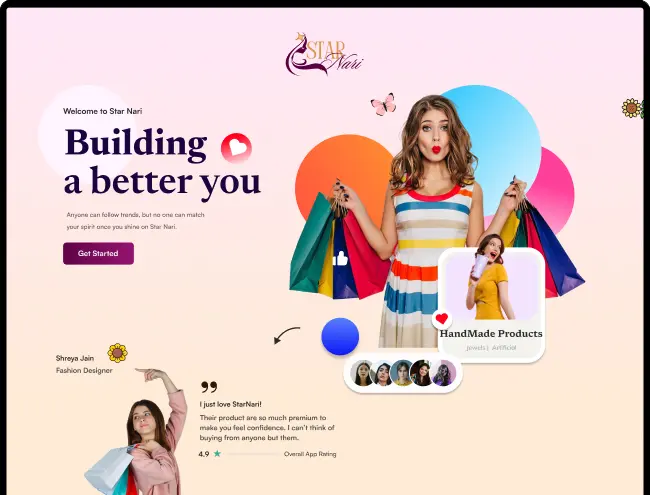
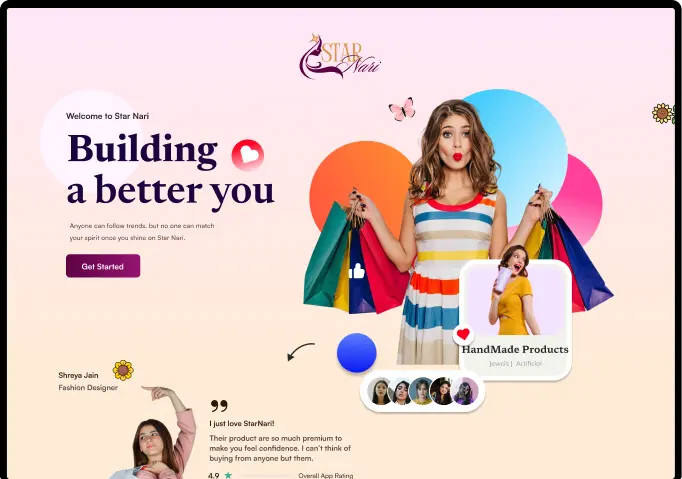
design change

diff --git a/src/app/components/landing-pages/home/home.component.html b/src/app/components/landing-pages/home/home.component.html
@@ -7,10 +7,10 @@
         <div class="row align-items-center">
           <div class="col-lg-5 mb-4 mb-lg-0">
             <div class="ct_prompt_hero_content mx-auto">
-              <h2 class="ct_fs_40 ct_fw_600 ct_mb_30">
+              <h1 class="ct_fs_40 ct_fw_600 ct_mb_30">
                 <span class="ct_orange_gredient_text ct_ff_figtree">Build Web & Mobile Apps</span> in Seconds Just by
                 Typing a Prompt.
-              </h2>
+              </h1>
               <a routerLink="/login" class="ct_prompt_primary_btn ct_blue_btn_fill ">
                 <img src="assets/img/home_mail_icon.svg" alt="" loading="lazy" width="23px" height="25px">
                 Continue with Email
@@ -112,21 +112,19 @@
                 <div class="swiper-slide">
                   <div class="ct_home_slider_main_img ct_home_slider_main_bg px-3">
                     <div style="max-width: 800px; margin: 0 auto;">
-                      <h4 class="mb-2 ct_fs_22 ct_fw_600 text-center pb-0 text-white">AI App Builders for Every Need
+                      <h4 class="mb-5 ct_fs_22 ct_fw_600 text-center pb-0 text-white">Build Your App in Minutes with Creative AI
                       </h4>
-                      <p class=" text-white mx-auto text-center " style="max-width: 405px; margin-bottom: 30px;">Create
-                        powerful apps, automate workflows, and launch faster with intelligent AI tools.</p>
-                      <div class="row">
+                                          <img src="assets/img/slider_home_55.png" alt="" />
+
+                      <!-- <div class="row">
                         <div class="col-lg-6 mb-3">
                           <div class="ct_ai_need_card">
                             <video muted playsinline>
                               <source src="assets/img/ai_app_gif_1.mp4" type="video/mp4">
                             </video>
                             <div class="mt-3">
-                              <h4 class="ct_fs_16 ct_fw_600 pb-0">AI App Generator</h4>
-                              <p class="mb-0 ct_fs_12">Create complete apps from simple prompts from idea to interface
-                                in
-                                seconds.</p>
+                              <h4 class="ct_fs_20 ct_fw_600 pb-0 mb-1">Type Your Prompt</h4>
+                              <p class="mb-0 ct_fs_14">Build a food delivery app</p>
                             </div>
 
                           </div>
@@ -177,7 +175,7 @@
 
                         </div>
 
-                      </div>
+                      </div> -->
 
                     </div>
                   </div>
@@ -280,7 +278,7 @@
               <img src="assets/img/launch_step_icon_1.svg" alt="" width="42" height="42" loading="lazy">
             </div>
             <div class="ct_launch_step_content">
-              <h4>Describe Your Idea</h4>
+              <h3>Describe Your Idea</h3>
               <p>Create a fitness app with login & dashboard.</p>
             </div>
           </div>
@@ -292,9 +290,9 @@
               <img src="assets/img/launch_step_icon_2.svg" alt="" width="42" height="42" loading="lazy">
             </div>
             <div class="ct_launch_step_content">
-              <h4>AI Builds Everything</h4>
+              <h3>AI Builds Everything</h3>
               <p>
-                Frontend, backend, database — done automatically
+                Frontend, backend, database done automatically
               </p>
             </div>
           </div>
@@ -306,7 +304,7 @@
               <img src="assets/img/launch_step_icon_3.svg" alt="" width="42" height="42" loading="lazy">
             </div>
             <div class="ct_launch_step_content">
-              <h4> Launch Instantly</h4>
+              <h3> Launch Instantly</h3>
               <p>Edit, customize & go live in minutes</p>
             </div>
           </div>

diff --git a/src/app/components/landing-pages/home/home.component.css b/src/app/components/landing-pages/home/home.component.css
@@ -299,7 +299,7 @@ section {
   max-width: 218px;
 }
 
-.ct_launch_step_content h4 {
+.ct_launch_step_content h3 {
   margin-bottom: 6px;
   font-size: 20px;
   line-height: 1.4;
@@ -771,7 +771,7 @@ section {
 }
 
 .ct_ai_need_card {
-  padding: 15px 15px;
+  padding: 28px 15px;
   box-shadow: 0px 0px 84px 0px #00000040, 0px 2px 14px 0px #68708680 inset;
   border-radius: 7px;
   background-color: #fff;
@@ -784,7 +784,9 @@ section {
   object-fit: contain;
 }
 
-
+.ct_ai_need_card p{
+  color: #687086;
+}
 .logo-slider {
   overflow: hidden;
   position: relative;
@@ -968,7 +970,7 @@ section {
 .ct_launch_step_icon ,.ct_launch_step_content{
   margin-inline: auto;
 }
-.ct_launch_step_content h4 ,.ct_launch_step_content p{
+.ct_launch_step_content h3 ,.ct_launch_step_content p{
   text-align: center;
 }
  

diff --git a/src/assets/css/style.css b/src/assets/css/style.css
@@ -2461,6 +2461,9 @@ table.table.ct_compare_table {
   color: #fff;
   padding: 13px 17px;
 }
+.ct_project_count_overlay h4 {
+    color: #fff;
+}
 
 /*✨✨ Faq Section E ✨✨*/
 

diff --git a/src/assets/css/responsive.css b/src/assets/css/responsive.css
@@ -710,6 +710,9 @@
     font-size: 26px;
     line-height: unset;
   }
+  .ct_build_visual.ct_build_visual_mobile img + img {
+    display: none;
+}
 }
 
 
